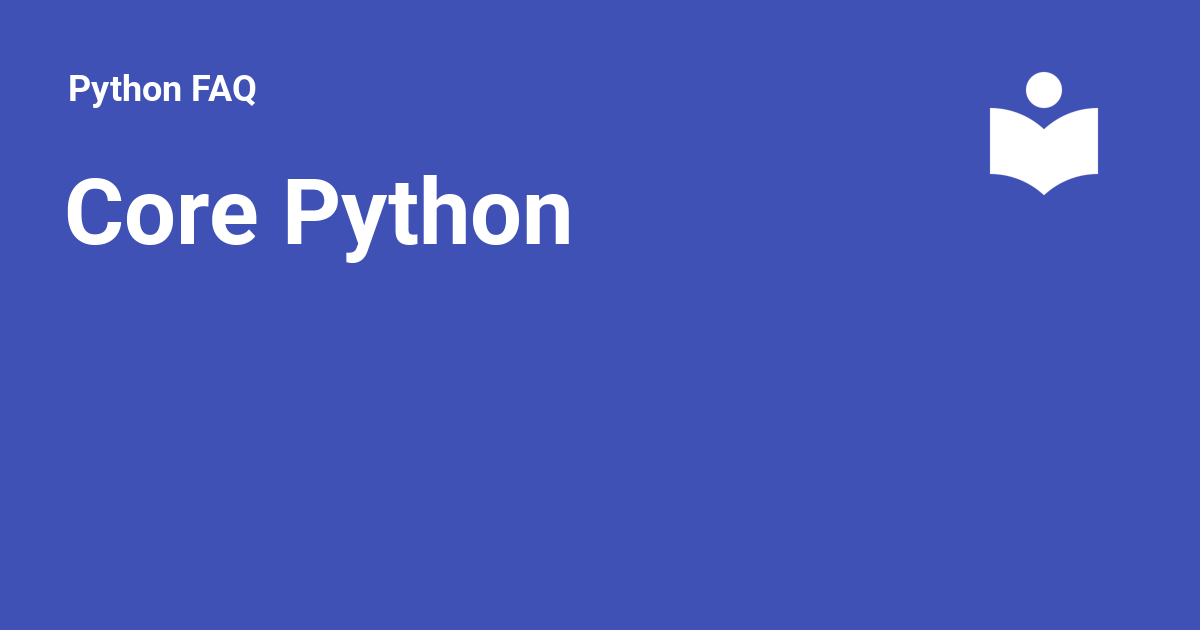
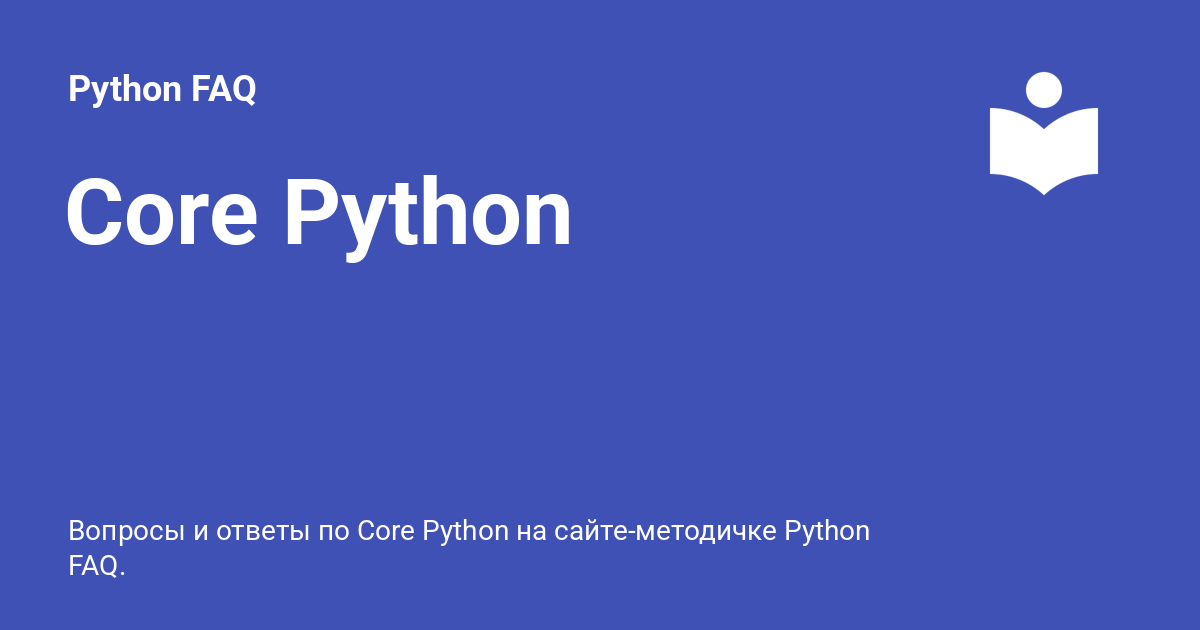
Deployed 48f1da0 with MkDocs version: 1.6.1

Changed region(s): [[0.0617, 0.8143, 0.74, 0.9048]]

diff --git a/core_python/index.html b/core_python/index.html
@@ -6,6 +6,8 @@
       <meta charset="utf-8">
       <meta name="viewport" content="width=device-width,initial-scale=1">
       
+        <meta name="description" content="Вопросы и ответы по Core Python на сайте-методичке Python FAQ.">
+      
       
       
         <link rel="canonical" href="https://u-cha.github.io/python-faq/core_python/">
@@ -56,7 +58,7 @@
       
         <meta  property="og:title"  content="Core Python - Python FAQ" >
       
-        <meta  property="og:description"  content="None" >
+        <meta  property="og:description"  content="Вопросы и ответы по Core Python на сайте-методичке Python FAQ." >
       
         <meta  property="og:image"  content="https://u-cha.github.io/python-faq/assets/images/social/core_python.png" >
       
@@ -72,7 +74,7 @@
       
         <meta  name="twitter:title"  content="Core Python - Python FAQ" >
       
-        <meta  name="twitter:description"  content="None" >
+        <meta  name="twitter:description"  content="Вопросы и ответы по Core Python на сайте-методичке Python FAQ." >
       
         <meta  name="twitter:image"  content="https://u-cha.github.io/python-faq/assets/images/social/core_python.png" >
       
